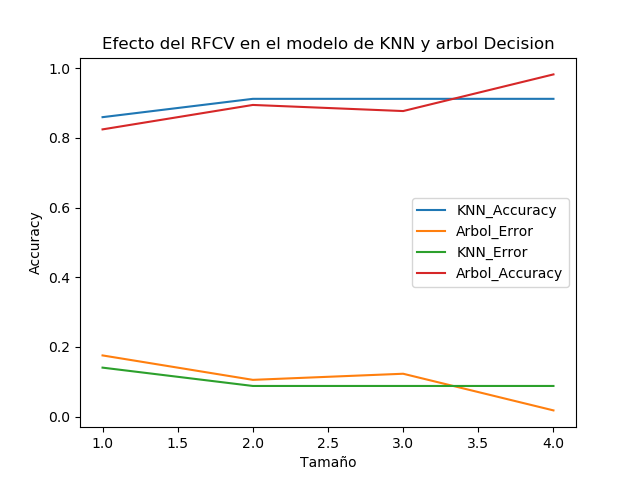
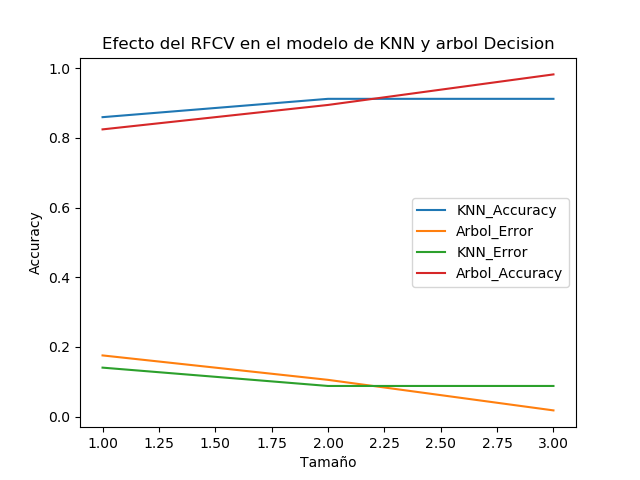
Finalizacion ejercicio7

diff --git a/PRACTICAS/PRACTICA1/ejercicio7/ejercicio7.py b/PRACTICAS/PRACTICA1/ejercicio7/ejercicio7.py
@@ -69,4 +69,48 @@ plt.savefig('images/RFCV.png')
 # Limpiamos los graficos
 plt.clf()
 
+# Using SequentialFeatureSelector
+sfs = SequentialFeatureSelector(DecisionTree, n_features_to_select=1, direction='backward')
+sfs.fit(X_breast_cancer, y_breast_cancer)
 
+# Eliminamos las columnas que no son relevantes
+X_breast_cancer = X_breast_cancer[:,sfs.get_support()]
+
+# Split data into training and test sets
+X_train_breast_cancer, X_test_breast_cancer, y_train_breast_cancer, y_test_breast_cancer = train_test_split(X_breast_cancer, y_breast_cancer, test_size=0.1, random_state=0)
+
+# Creamos el modelo de KNN
+KNN.fit(X_train_breast_cancer, y_train_breast_cancer)
+# Creamos el modelo de arbol
+DecisionTree.fit(X_train_breast_cancer, y_train_breast_cancer)
+
+# Estudiamos el efecto del SequentialFeatureSelector en el modelo de KNN
+for i in range(1, X_train_breast_cancer.shape[1]+1):
+    # Creamos el modelo de KNN
+    KNN.fit(X_train_breast_cancer[:,0:i], y_train_breast_cancer)
+    # Creamos el modelo de arbol
+    DecisionTree.fit(X_train_breast_cancer[:,0:i], y_train_breast_cancer)
+    # Calculamos el accuracy del modelo
+    knn_accuracy.append(KNN.score(X_test_breast_cancer[:,0:i], y_test_breast_cancer))
+    arbol_accuracy.append(DecisionTree.score(X_test_breast_cancer[:,0:i], y_test_breast_cancer))
+    # Calculamos el error del modelo
+    knn_error.append(1-KNN.score(X_test_breast_cancer[:,0:i], y_test_breast_cancer))
+    arbol_error.append(1-DecisionTree.score(X_test_breast_cancer[:,0:i], y_test_breast_cancer))
+    # Añadimos el tamaño de los datos
+    knn_size.append(i)
+    arbol_size.append(i)
+
+# Creamos el dataframe para el grafico de KNN
+df_knn = pd.DataFrame({'Tamaño': knn_size, 'Accuracy': knn_accuracy, 'Error': knn_error})
+# Creamos el dataframe para el grafico de arbol
+df_arbol = pd.DataFrame({'Tamaño': arbol_size, 'Accuracy': arbol_accuracy, 'Error': arbol_error})
+
+# Creamos el grafico de KNN
+sns.lineplot(data=df_knn, x="Tamaño", y="Accuracy", label="KNN_Accuracy")
+sns.lineplot(data=df_arbol, x="Tamaño", y="Error", label="Arbol_Error")
+sns.lineplot(data=df_knn, x="Tamaño", y="Error", label="KNN_Error")
+sns.lineplot(data=df_arbol, x="Tamaño", y="Accuracy", label="Arbol_Accuracy")
+plt.title("Efecto del SequentialFeatureSelector en el modelo de KNN y arbol Decision")
+
+# Guardamos el grafico
+plt.savefig('images/SequentialFeatureSelector.png')
